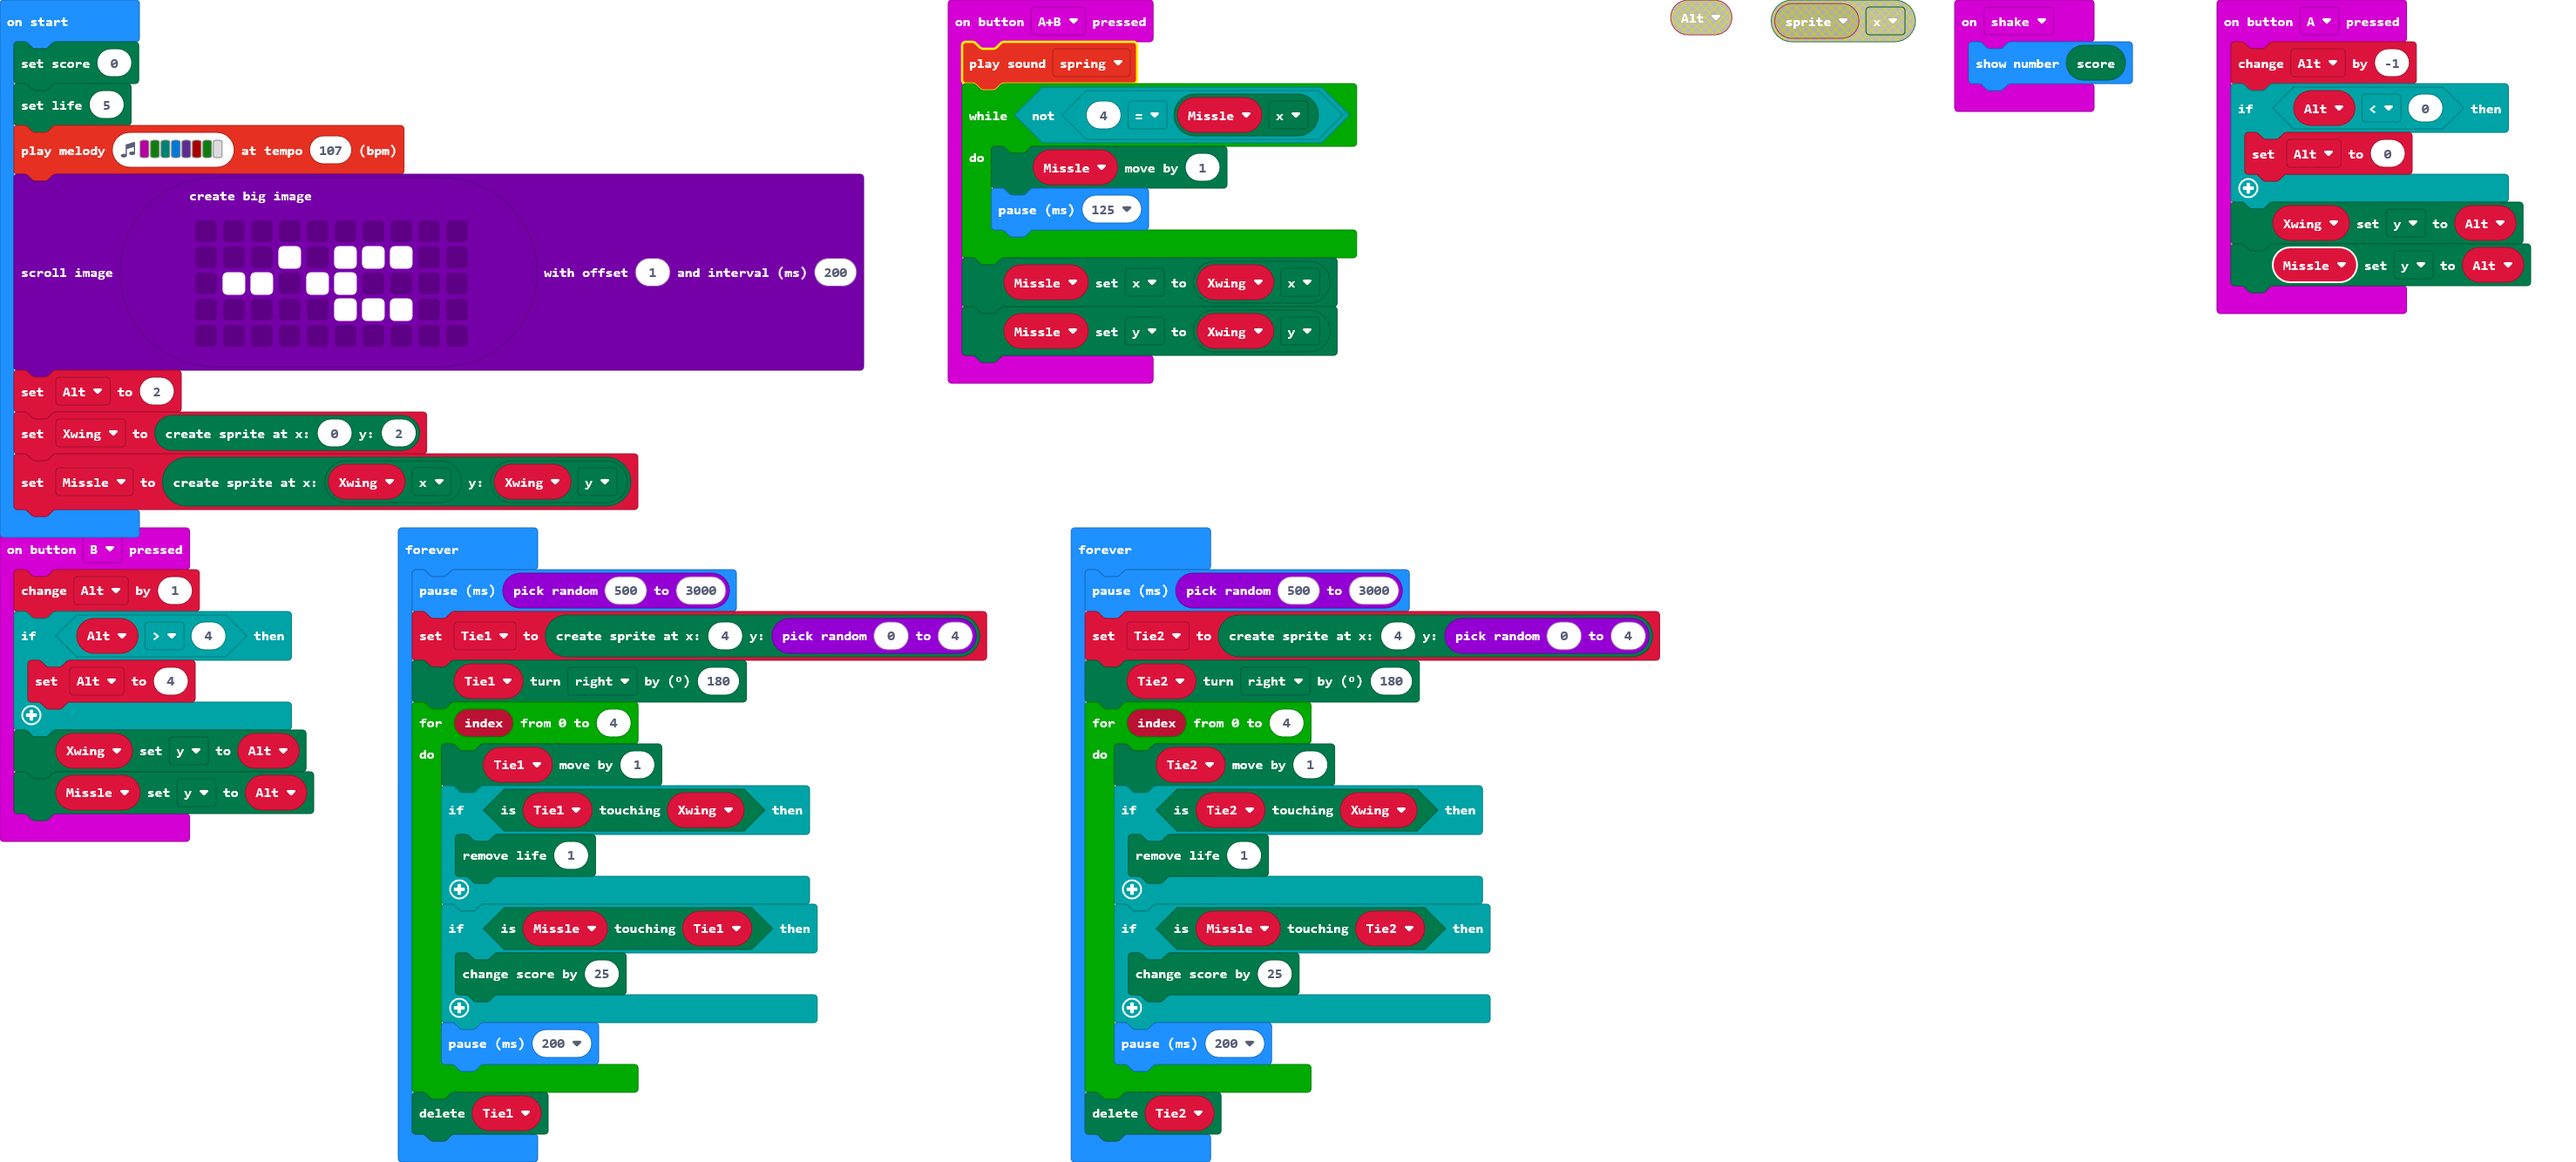
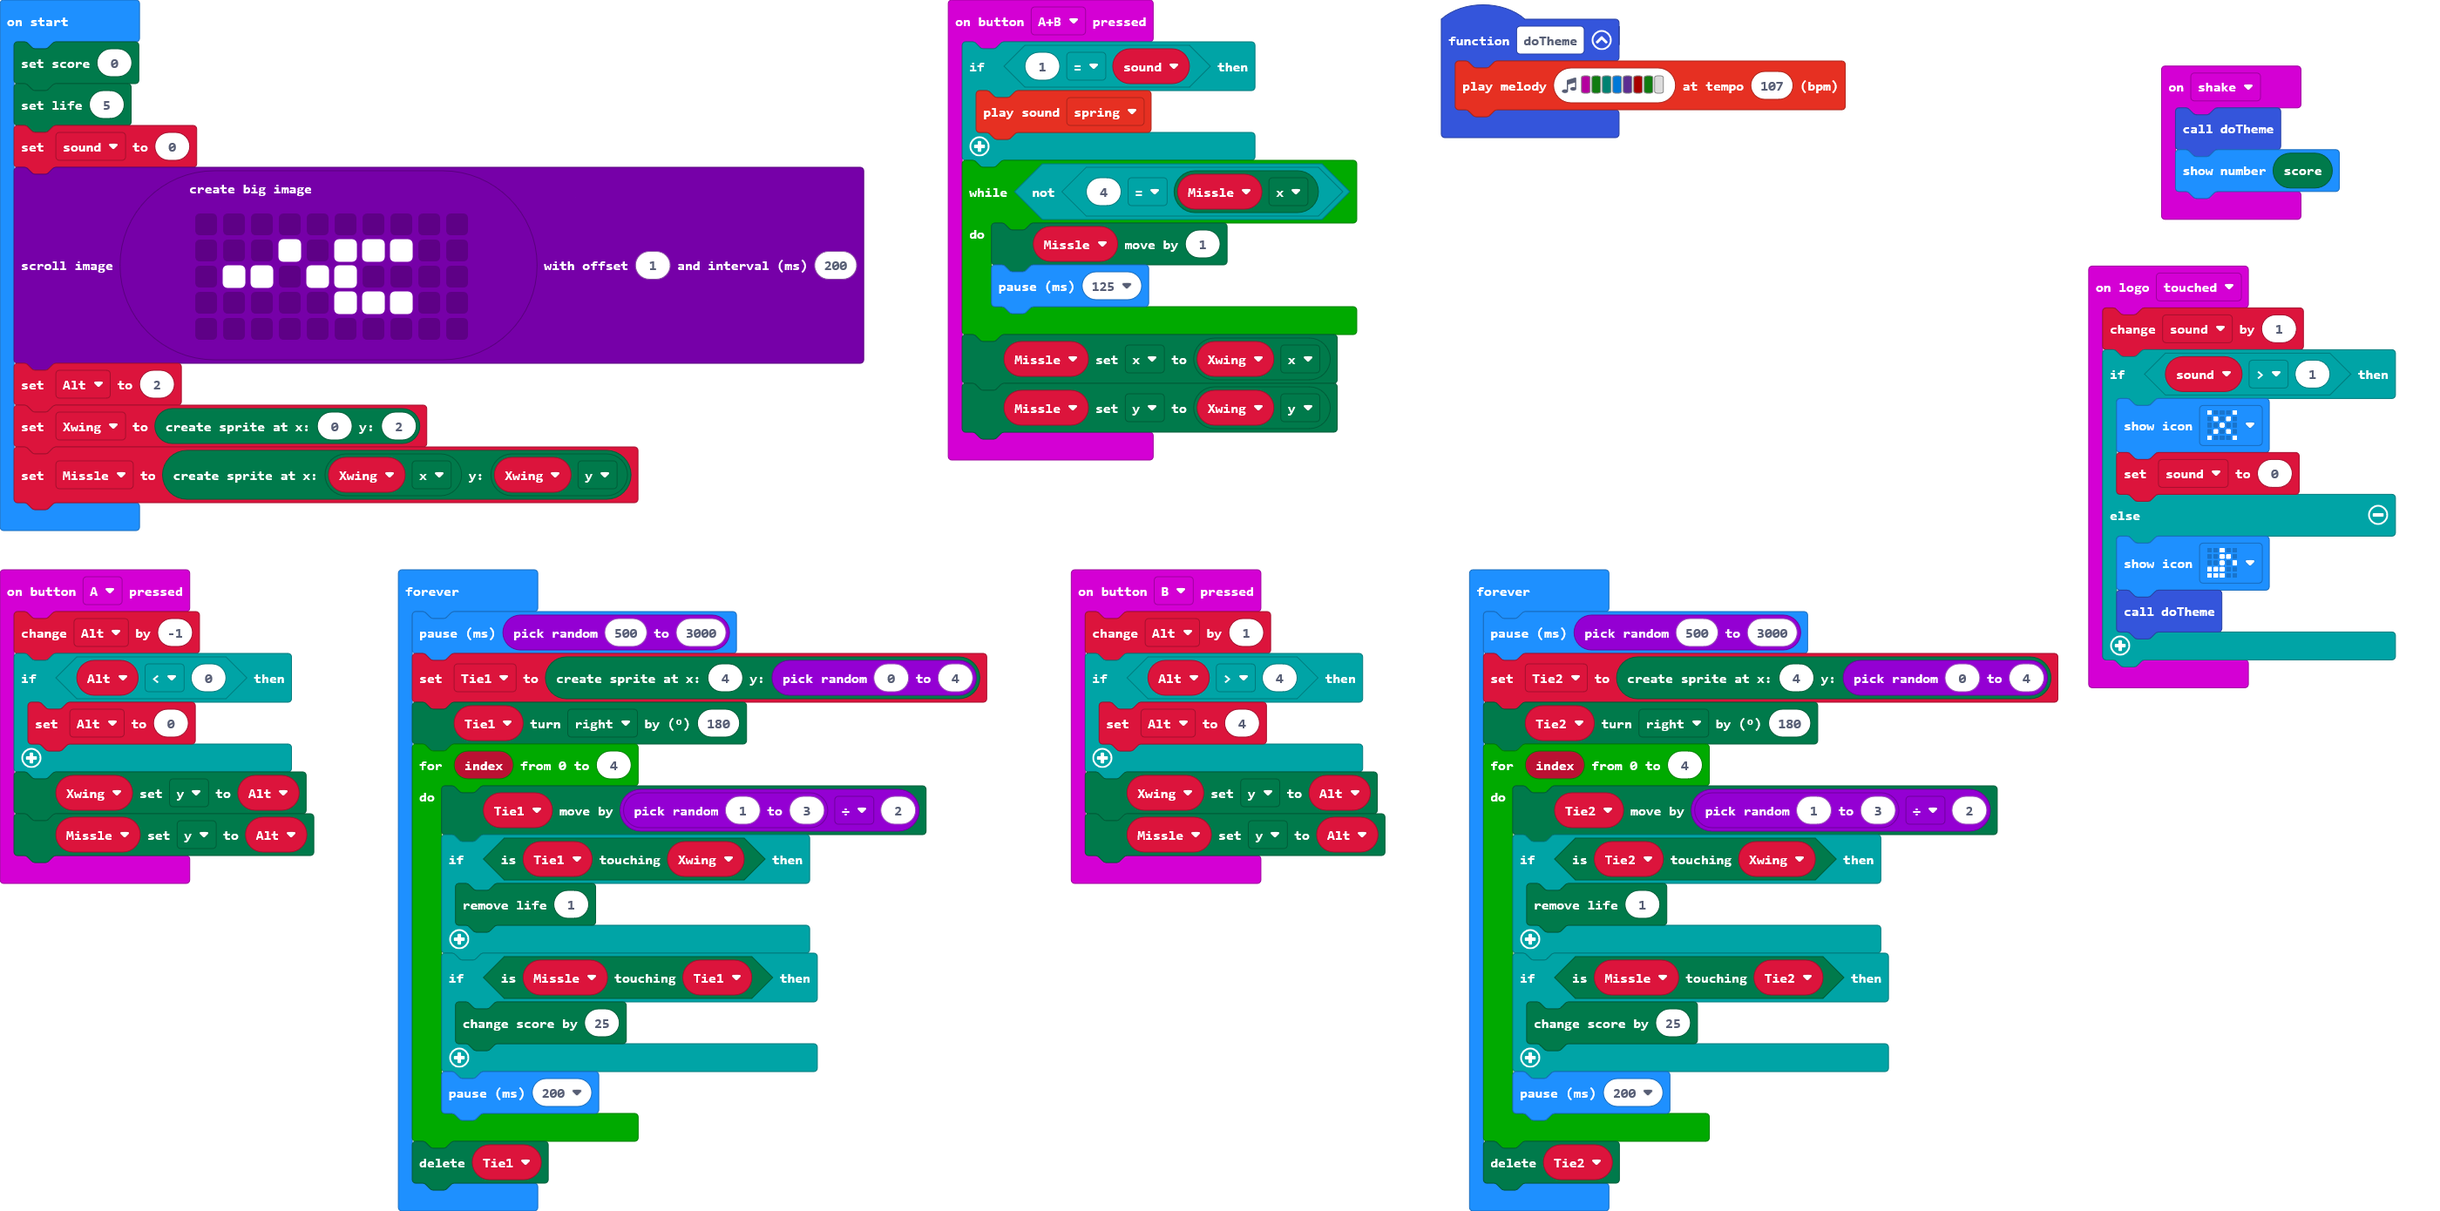
Update main.blocks, main.ts

diff --git a/main.ts b/main.ts
@@ -7,7 +7,9 @@ input.onButtonPressed(Button.A, function () {
     Missle.set(LedSpriteProperty.Y, Alt)
 })
 input.onButtonPressed(Button.AB, function () {
-    soundExpression.spring.play()
+    if (1 == sound) {
+        soundExpression.spring.play()
+    }
     while (!(4 == Missle.get(LedSpriteProperty.X))) {
         Missle.move(1)
         basic.pause(125)
@@ -24,16 +26,31 @@ input.onButtonPressed(Button.B, function () {
     Missle.set(LedSpriteProperty.Y, Alt)
 })
 input.onGesture(Gesture.Shake, function () {
+    doTheme()
     basic.showNumber(game.score())
 })
+input.onLogoEvent(TouchButtonEvent.Touched, function () {
+    sound += 1
+    if (sound > 1) {
+        basic.showIcon(IconNames.No)
+        sound = 0
+    } else {
+        basic.showIcon(IconNames.EigthNote)
+        doTheme()
+    }
+})
+function doTheme () {
+    music.playMelody("C G F E D C5 G - ", 107)
+}
 let Tie2: game.LedSprite = null
 let Tie1: game.LedSprite = null
 let Missle: game.LedSprite = null
 let Xwing: game.LedSprite = null
 let Alt = 0
+let sound = 0
 game.setScore(0)
 game.setLife(5)
-music.playMelody("C G F E D C5 G - ", 107)
+sound = 0
 images.createBigImage(`
     . . . . . . . . . .
     . . . # . # # # . .
@@ -49,7 +66,7 @@ basic.forever(function () {
     Tie1 = game.createSprite(4, randint(0, 4))
     Tie1.turn(Direction.Right, 180)
     for (let index = 0; index <= 4; index++) {
-        Tie1.move(1)
+        Tie1.move(randint(1, 3) / 2)
         if (Tie1.isTouching(Xwing)) {
             game.removeLife(1)
         }
@@ -65,7 +82,7 @@ basic.forever(function () {
     Tie2 = game.createSprite(4, randint(0, 4))
     Tie2.turn(Direction.Right, 180)
     for (let index = 0; index <= 4; index++) {
-        Tie2.move(1)
+        Tie2.move(randint(1, 3) / 2)
         if (Tie2.isTouching(Xwing)) {
             game.removeLife(1)
         }
